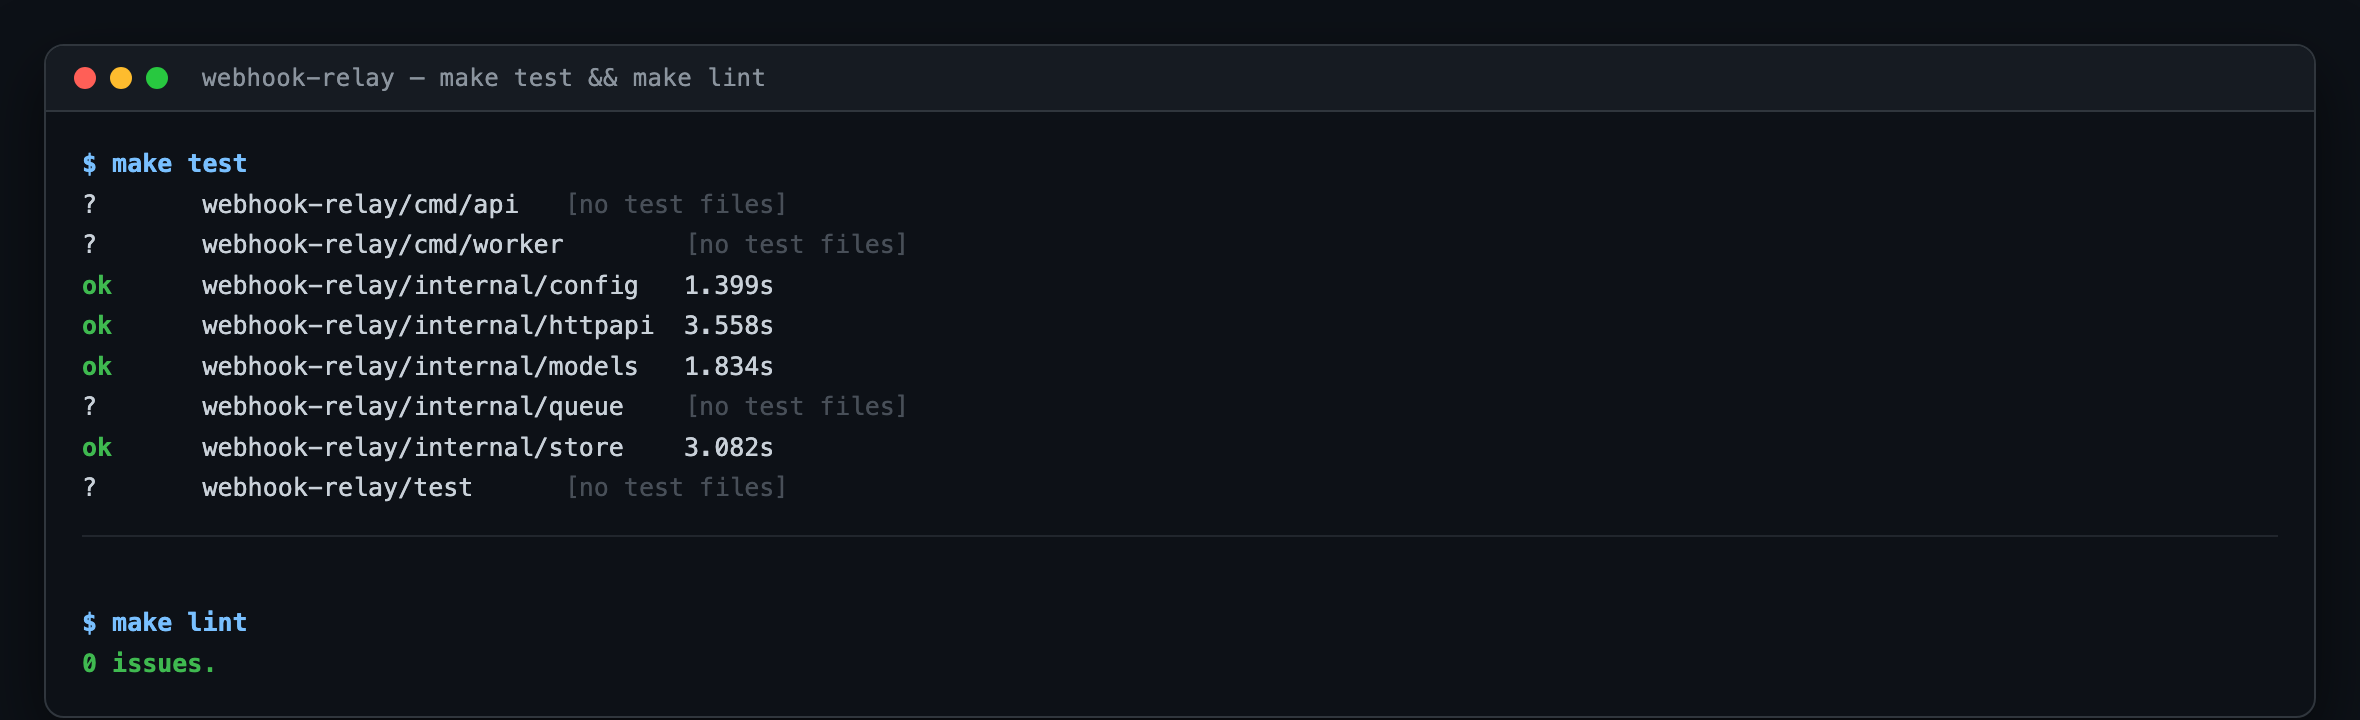
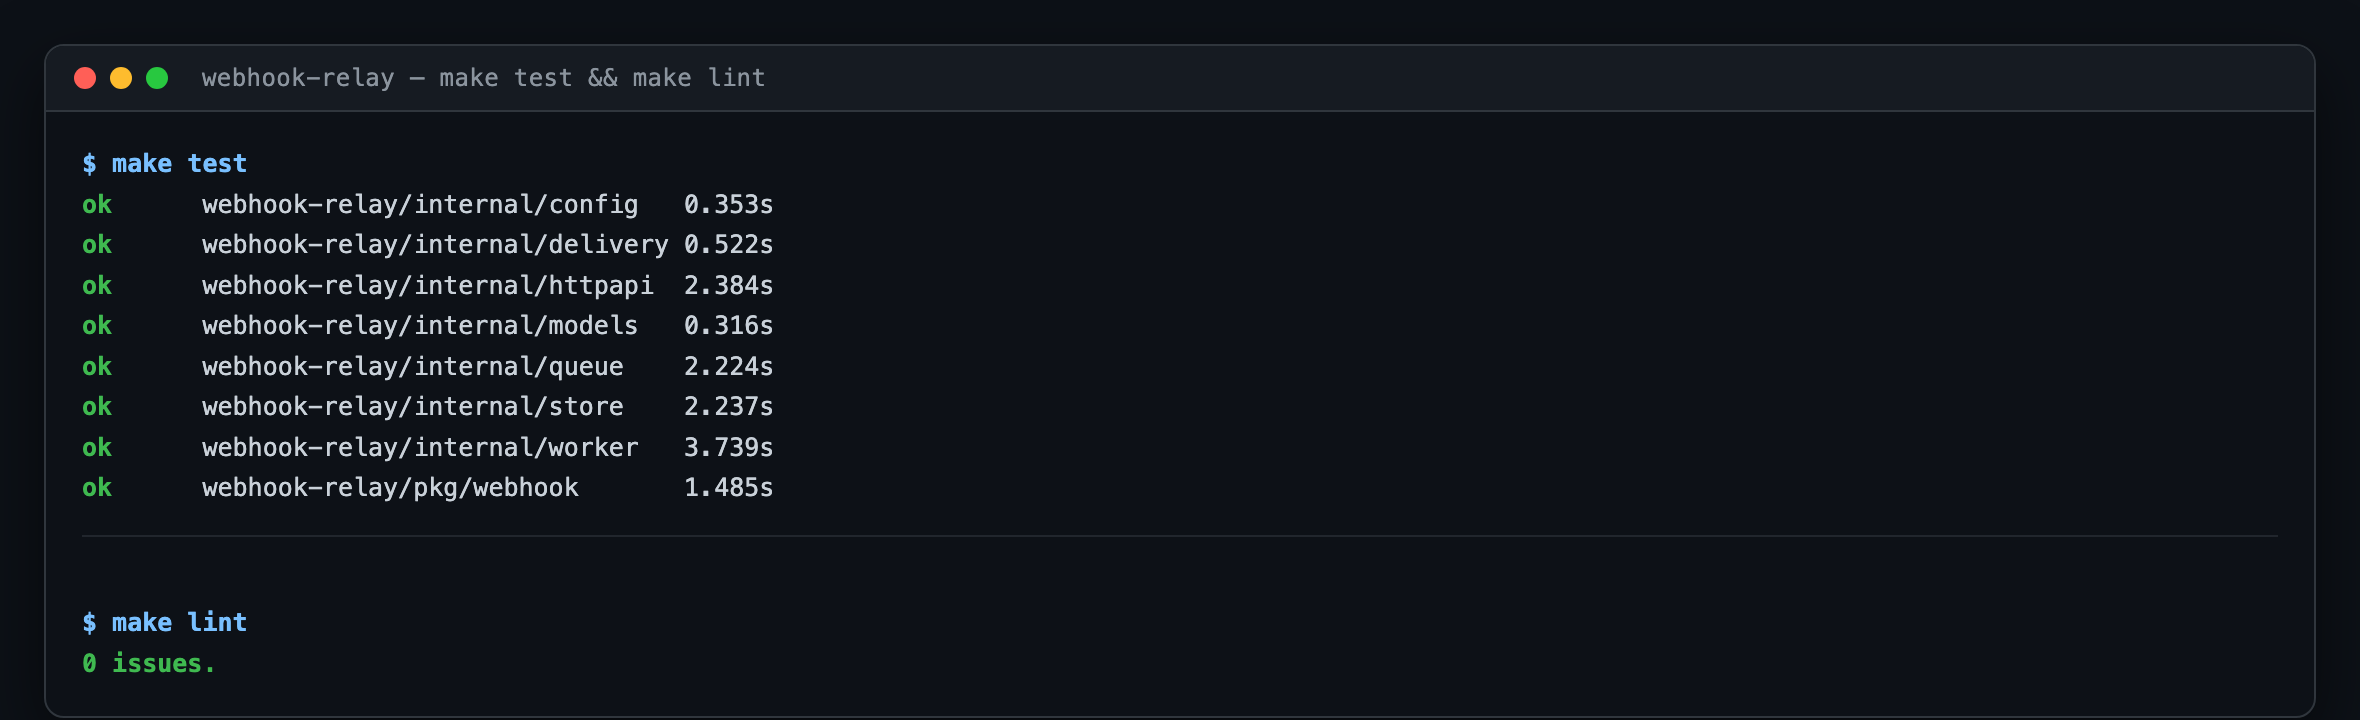
docs: document delivery, with verified screenshots
Every screenshot is real output from this machine: the six-attempt retry chain
with its actual jitter gaps, the replay from the DLQ, the openssl signature
check, and both containers reporting healthy.

The retry screenshot is annotated rather than presented as a clean doubling
sequence, because it is not one — the 5->6 gap was 10s under a 32s ceiling. That
is full jitter working. A monotonic sequence would mean it was not, and hiding
the point would defeat the reason for choosing full jitter in the first place.

New sections cover the outbox and why insert-then-enqueue is the worst of the
three options, why Streams over a LIST or SKIP LOCKED and what that costs, the
two independent recovery paths and why the second one exists, the
DELIVERY_TIMEOUT < STALE_CLAIM_TIMEOUT < DELIVERY_LEASE ordering that is
validated at boot, full jitter against the thundering herd, and the dedup
guard's honest limits.

Known Gaps now names what Day 2 did NOT do: rate_limit_per_sec is read but
nothing throttles on it, consecutive_failures is maintained but nothing opens a
breaker on it, and delivery is at-least-once by design.

diff --git a/README.md b/README.md
@@ -9,15 +9,15 @@ failure modes — the kind of service Stripe or Svix runs internally.
 
 ---
 
-## Status: Day 1 of 6
+## Status: Day 2 of 6
 
 This repository is being built in public, one day at a time. **Only what is
 described below actually works.** Nothing here is a stub presented as finished.
 
 | | |
 |---|---|
-| ✅ **Working today** | Ingest API, endpoint management, Postgres persistence, idempotent ingest, migrations, local stack, CI |
-| ⬜ **Not built yet** | Delivery. Events are persisted with status `pending` and **nothing sends them**. The worker binary starts, logs a warning that it has no delivery loop, and idles. |
+| ✅ **Working today** | Ingest API, idempotent ingest, transactional outbox, Valkey Streams queue, delivery worker pool, HMAC-SHA256 signing, full-jitter retries, dead letter queue, replay, stale-claim recovery |
+| ⬜ **Not built yet** | Circuit breaker (Day 3), observability (Day 4), Kubernetes and chaos testing (Day 5), load test and postmortem (Day 6). `rate_limit_per_sec` is stored and validated but **not enforced**. |
 
 The roadmap is at the [bottom of this file](#roadmap).
 
@@ -45,6 +45,14 @@ Then seed some data:
 
 ```bash
 make seed
+```
+
+To watch delivery actually happen — retries, dead-lettering, replay, and a
+signature verified against `openssl` — start the stack with a controllable
+receiver and run the demonstration:
+
+```bash
+make demo-up && make demo
 ```
 
 <details>
@@ -99,6 +107,43 @@ row.
 This is resolved by the database, not the application. See
 [the idempotency race](#the-idempotency-race) below.
 
+### Deliver it, retry it, dead-letter it
+
+A worker signs the payload, POSTs it, and records every attempt. When the
+endpoint keeps failing, retries back off with full jitter until the attempt
+budget is spent and the event is dead-lettered.
+
+![retry with full jitter, then dead letter](docs/images/retry.png)
+
+Look at the gaps rather than the timestamps. The **ceiling** doubles — 2s, 4s,
+8s, 16s, 32s — but each actual delay is a uniform draw from `[0, ceiling)`, so
+the sequence trends upward without being monotonic. The 5→6 gap of 10s under a
+32s ceiling is the jitter working, not a bug. A perfectly doubling sequence
+would mean it was not.
+
+Note also `duplicate dispatches: {}` — six attempts, six deliveries, no
+attempt sent twice.
+
+### Replay it, and verify the signature
+
+Point the endpoint at something healthy and replay from the DLQ. The attempt
+budget resets; the failure history does not disappear.
+
+![replay from the DLQ and verify the signature](docs/images/replay.png)
+
+The last step recomputes the HMAC with `openssl` and compares it to the `v1=`
+digest we sent. It matches, which means the signature scheme is verifiable by
+anything that can compute an HMAC — not just by our own Go code.
+
+### Everything self-probes
+
+![container health](docs/images/health.png)
+
+The runtime image is distroless — no shell, no curl — so each binary probes
+itself via `-healthcheck`. The API GETs its own `/readyz`; the worker, which
+serves no HTTP, checks that Postgres and Valkey are both reachable using its
+real configuration.
+
 ---
 
 ## API
@@ -112,6 +157,7 @@ This is resolved by the database, not the application. See
 | `DELETE` | `/v1/endpoints/{id}` | `204`, cascades to events and attempts |
 | `POST` | `/v1/events` | `202` accepted, or `200` on an idempotent replay |
 | `GET` | `/v1/events/{id}` | `200` status + full attempt history |
+| `POST` | `/v1/events/{id}/replay` | `202` requeued with a fresh budget, or `409` if not terminal |
 | `GET` | `/healthz` | liveness — touches no dependency |
 | `GET` | `/readyz` | readiness — pings Postgres |
 
@@ -169,6 +215,154 @@ winner, and hands back the surviving row.
 "Was it created?" is answered by comparing the returned ID to the UUIDv7 we
 generated — the database can only return our ID if our insert was the one that
 landed. That avoids the `xmax = 0` trick and its dependence on a system column.
+
+### The transactional outbox
+
+Ingest has to do two things — persist the event, and make it deliverable — and
+they live in two systems with no transaction spanning them. Whichever order you
+pick, a crash between them breaks something:
+
+| Order | Crash in between |
+|---|---|
+| Enqueue, then insert | A message pointing at an event that does not exist. |
+| Insert, then enqueue | An event nothing will ever deliver. **Silent loss** — nothing reports an error. |
+
+The outbox removes the choice. **Ingest writes only to Postgres**, in one
+transaction, and returns `202`. A separate relay is the queue's only producer,
+and it derives what to enqueue from the durable rows. A crash can then only
+cause a *duplicate* enqueue, never a lost event — and duplicates are already
+inside the at-least-once contract.
+
+**What it costs:** an event waits up to one relay poll (250ms by default)
+before it is enqueued. That is the price of not lying about atomicity.
+
+The relay claims with a **lease** rather than holding a transaction open across
+the enqueue. The textbook version — `BEGIN`, `SELECT … FOR UPDATE SKIP LOCKED`,
+`XADD`, `UPDATE`, `COMMIT` — holds Postgres row locks across a network round
+trip to a different system. Under load that turns every Valkey hiccup into lock
+contention and a Valkey timeout into a long transaction blocking vacuum.
+Instead the claim and the lease happen in one statement; what happens if the
+relay dies mid-batch is enumerated case by case in
+[`ClaimDueEvents`](internal/store/delivery.go).
+
+### Valkey Streams, not a LIST and not SKIP LOCKED
+
+A stream with a consumer group is the only one of the three that can express
+*"this worker is holding this job right now, and if it dies somebody else must
+get it."*
+
+- **Not a LIST.** `LPOP` hands the job over and forgets it. Kill that worker
+  between the pop and the HTTP call — which is exactly what Day 5 does — and the
+  job is gone with no record it existed. `BRPOPLPUSH` into per-worker processing
+  lists gets partway, but recovery then means enumerating every worker's list
+  and deciding which owners are still alive: a consumer group rebuilt by hand.
+- **Not Postgres `SKIP LOCKED`**, though the relay itself uses it. Every polling
+  worker would hold a connection for its whole transaction, bounding worker
+  count by `max_connections`, and queue churn would land on the same disk as the
+  durable event log.
+- **Streams** keep a per-group pending-entries list. `XREADGROUP` moves an entry
+  there under a named consumer until `XACK`; `XAUTOCLAIM` reassigns entries idle
+  too long. That is the recovery primitive, not something we build.
+
+**What we give up:** the pending list is memory-resident; there is no delayed
+redelivery, so backoff lives in Postgres; and it is at-least-once, never
+exactly-once.
+
+### Two independent recovery paths
+
+A worker can die holding a job. So can Valkey.
+
+| Failure | Recovered by |
+|---|---|
+| Worker dies holding a claim | `XAUTOCLAIM` after `STALE_CLAIM_TIMEOUT` (60s) |
+| Worker dies **and** Valkey loses the pending list | The Postgres lease expiring after `DELIVERY_LEASE` (5m) |
+
+The second is the one people forget. `XAUTOCLAIM` cannot recover an entry from a
+pending list that no longer exists — a restarted pod, a flushed database, a
+recreated consumer group. Only a durable lease covers both together, which is
+why `next_retry_at` doubles as a lease expiry while an event is `delivering`.
+
+These timeouts have an ordering that must hold:
+
+```
+DELIVERY_TIMEOUT  <  STALE_CLAIM_TIMEOUT  <  DELIVERY_LEASE
+```
+
+Violate the first and a slow-but-healthy delivery gets reclaimed and duplicated
+while still in flight. Violate the second and the relay requeues events the
+workers still hold. **Both are validated at boot**, with an error naming the
+consequence — this is not the kind of thing you want to diagnose from duplicate
+deliveries under load.
+
+### Full jitter, and why it beats fixed backoff
+
+An endpoint goes down. Every in-flight event fails at the same instant. With a
+fixed delay — or with plain exponential backoff — every one of them retries at
+the same instant too. The herd stays synchronized: the endpoint recovers, takes
+the entire backlog as one spike, falls over, and the next round is just as
+synchronized as the last.
+
+**Backoff without jitter does not spread load. It postpones a stampede and then
+reproduces it**, with a longer gap between identical spikes.
+
+Drawing uniformly from `[0, ceiling)` breaks the correlation on the first retry
+round and keeps it broken, because every subsequent draw is independent.
+
+**What it costs:** the mean delay is halved (`E[U(0,c)] = c/2`), so clients
+retry sooner on average than the ceiling implies, and any individual sequence is
+not monotonically increasing. "Equal jitter" (`c/2 + U(0, c/2)`) trades some
+decorrelation for a tighter lower bound; full jitter wins here because the
+synchronized-herd case is exactly what Day 5 will create on purpose.
+
+The property is [tested directly](internal/delivery/backoff_test.go), not
+asserted in a comment: a thousand delays are bucketed across the window, every
+bucket must be occupied, and no bucket may hold an outsized share. Without
+jitter, one bucket would hold all thousand.
+
+### Delivery-side deduplication, and its honest limits
+
+Before dispatching, a worker claims `delivery:{event_id}:{attempt}` with
+`SETNX` and a TTL. If the key exists, another worker already sent this exact
+attempt.
+
+Keyed on the **pair**, not the event: retries are supposed to happen, and only a
+redelivery of the *same attempt* is a duplicate.
+
+**This narrows the window. It cannot close it.** The gap between claiming the
+key and the request reaching the receiver is still unprotected, and reversing
+the order just trades one failure for the other. There is no exactly-once across
+a network boundary — which is why every delivery carries a stable
+`X-Webhook-Id` and [`pkg/webhook`](pkg/webhook) tells receivers to deduplicate
+on it.
+
+It also **fails open**: if Valkey is unreachable, the delivery proceeds.
+Refusing to deliver because the cache is down would convert a duplicate-delivery
+risk into a no-delivery outage.
+
+`DELIVERY_DEDUP_ENABLED=false` turns it off on purpose, so Day 5 can demonstrate
+the duplicates it prevents. A safety control that is never observed failing is
+indistinguishable from one that does nothing.
+
+### Retry classification
+
+| Response | Outcome | Why |
+|---|---|---|
+| `2xx` | Success | — |
+| `408`, `429` | Retry | Both explicitly describe a condition that will pass. |
+| Other `4xx` | **Permanent — straight to DLQ** | A 404 or a rejected signature will never succeed. Burning six attempts is wasted work for us, unwanted traffic for them, and it delays an operator noticing. |
+| `5xx` | Retry | The server is saying it failed, not that we did. |
+| `3xx` | Retry | We do not follow redirects, so this is a misconfigured receiver — one more chance beats dead-lettering on the first surprise. |
+| Transport error | Retry | A refused connection is indistinguishable from a restarting endpoint. |
+
+`Retry-After` is honoured on 429 and 503 in both RFC 9110 forms, clamped, and
+combined with our own backoff by taking the **maximum** — so a receiver cannot
+shorten our backoff by sending `Retry-After: 0`.
+
+### Redirects are not followed
+
+Beyond a `3xx` meaning a misconfigured receiver, following one would deliver a
+signed payload to a host the customer never registered — an SSRF primitive
+handed to whoever controls the original URL.
 
 ### UUIDv7 for event IDs
 
@@ -243,6 +437,20 @@ would only assert that our fake behaves like our fake.
 One container is shared per test binary; each test gets its own schema, so tests
 run in parallel without seeing each other's rows.
 
+### The pipeline is tested as a pipeline
+
+Twelve integration tests in [`internal/worker`](internal/worker) run a complete
+system — real Postgres, real Valkey, a real HTTP receiver, the relay, and the
+worker pool, wired exactly as `cmd/worker` wires them. They cover success, retry
+then success, permanent `4xx`, exhaustion into the DLQ, replay from the DLQ,
+signature verification, header correctness, inactive endpoints, and the
+consecutive-failure counter.
+
+They earned their keep immediately by catching a real bug: `ReplayEvent` checked
+for the pgx no-rows sentinel, but `scanEvent` had already normalized it to
+`models.ErrNotFound` — so the check never matched, `ErrNotReplayable` was
+unreachable, and the API would have answered `500` where it should answer `409`.
+
 ### The race test was verified by mutation
 
 A concurrency test that passes proves nothing unless it can fail. Swapping the
@@ -267,16 +475,21 @@ their connection pools before the starting gate opens.
 ## Layout
 
 ```
-cmd/api/          HTTP ingest + management API
-cmd/worker/       delivery worker — no delivery loop yet (day 2)
-internal/models/  domain types and validation; no I/O
-internal/store/   Postgres access; owns every SQL statement
-internal/queue/   queue interface; no implementation yet
-internal/httpapi/ routing, middleware, handlers
-internal/config/  environment-only configuration
-migrations/       golang-migrate SQL, indexes justified inline
-deploy/compose/   local stack: postgres 16, valkey 8, api
-test/             testcontainers helpers
+cmd/api/            HTTP ingest + management API
+cmd/worker/         outbox relay + delivery worker pool
+internal/models/    domain types and validation; no I/O
+internal/store/     Postgres access; owns every SQL statement
+internal/queue/     Valkey Streams work queue
+internal/relay/     transactional outbox: Postgres -> queue
+internal/worker/    delivery pool, retry and DLQ decisions
+internal/delivery/  HTTP client, backoff, classification, dedup
+internal/httpapi/   routing, middleware, handlers
+internal/config/    environment-only configuration
+pkg/webhook/        PUBLIC: signature verification for receivers
+migrations/         golang-migrate SQL, indexes justified inline
+deploy/compose/     local stack: postgres 16, valkey 8, api, worker
+test/               testcontainers helpers and the full-pipeline harness
+test/sink/          controllable webhook receiver for tests and the demo
 ```
 
 ---
@@ -286,14 +499,15 @@ test/             testcontainers helpers
 | Day | Deliverable |
 |---|---|
 | **1** ✅ | Ingest API, schema, idempotency, local stack, CI |
-| **2** | Delivery worker, Valkey Streams, HMAC-SHA256 signatures |
-| **3** | Exponential backoff with jitter, per-endpoint circuit breaker, DLQ |
+| **2** ✅ | Outbox relay, Valkey Streams, delivery worker, HMAC signing, full-jitter retries, DLQ, replay |
+| **3** | Per-endpoint circuit breaker and rate limiting |
 | **4** | OpenTelemetry → Prometheus, Tempo, Loki, Grafana |
 | **5** | k3d + Helm + Terraform + ArgoCD; Chaos Mesh fault injection |
 | **6** | k6 load test, benchmark numbers, and the postmortem |
 
-`endpoints.consecutive_failures` already exists in the schema so Day 3's circuit
-breaker is a code change rather than a migration against a populated table.
+`endpoints.consecutive_failures` is already maintained by the worker — reset on
+success, incremented on failure — so Day 3's circuit breaker reads a counter
+that is already correct rather than starting from zero against live data.
 
 ---
 
@@ -306,8 +520,15 @@ Stated plainly rather than discovered by a reviewer:
 - **No SSRF protection.** Endpoint URLs may point at loopback and private
   ranges, which is required for local testing but would need an egress allowlist
   in a hosted deployment.
-- **No rate limiting yet.** `rate_limit_per_sec` is stored and validated but not
-  enforced; it governs delivery, which does not exist until Day 2.
+- **No rate limiting yet.** `rate_limit_per_sec` is stored, validated, and read
+  by the worker, but nothing throttles on it. A busy endpoint can be hit as fast
+  as the pool can dispatch. Day 3.
+- **No circuit breaker yet.** `consecutive_failures` is maintained correctly but
+  nothing reads it to stop delivering. An endpoint that has been down for an
+  hour still gets the full retry schedule for every event. Day 3.
+- **Delivery is at-least-once, deliberately.** The dedup guard narrows the
+  duplicate window; it does not eliminate it. Receivers must deduplicate on
+  `X-Webhook-Id`.
 - **Offset pagination** on `GET /v1/endpoints` drifts under concurrent inserts.
   Acceptable because endpoints are registered by humans, not by traffic. The
   events table would need keyset pagination.
